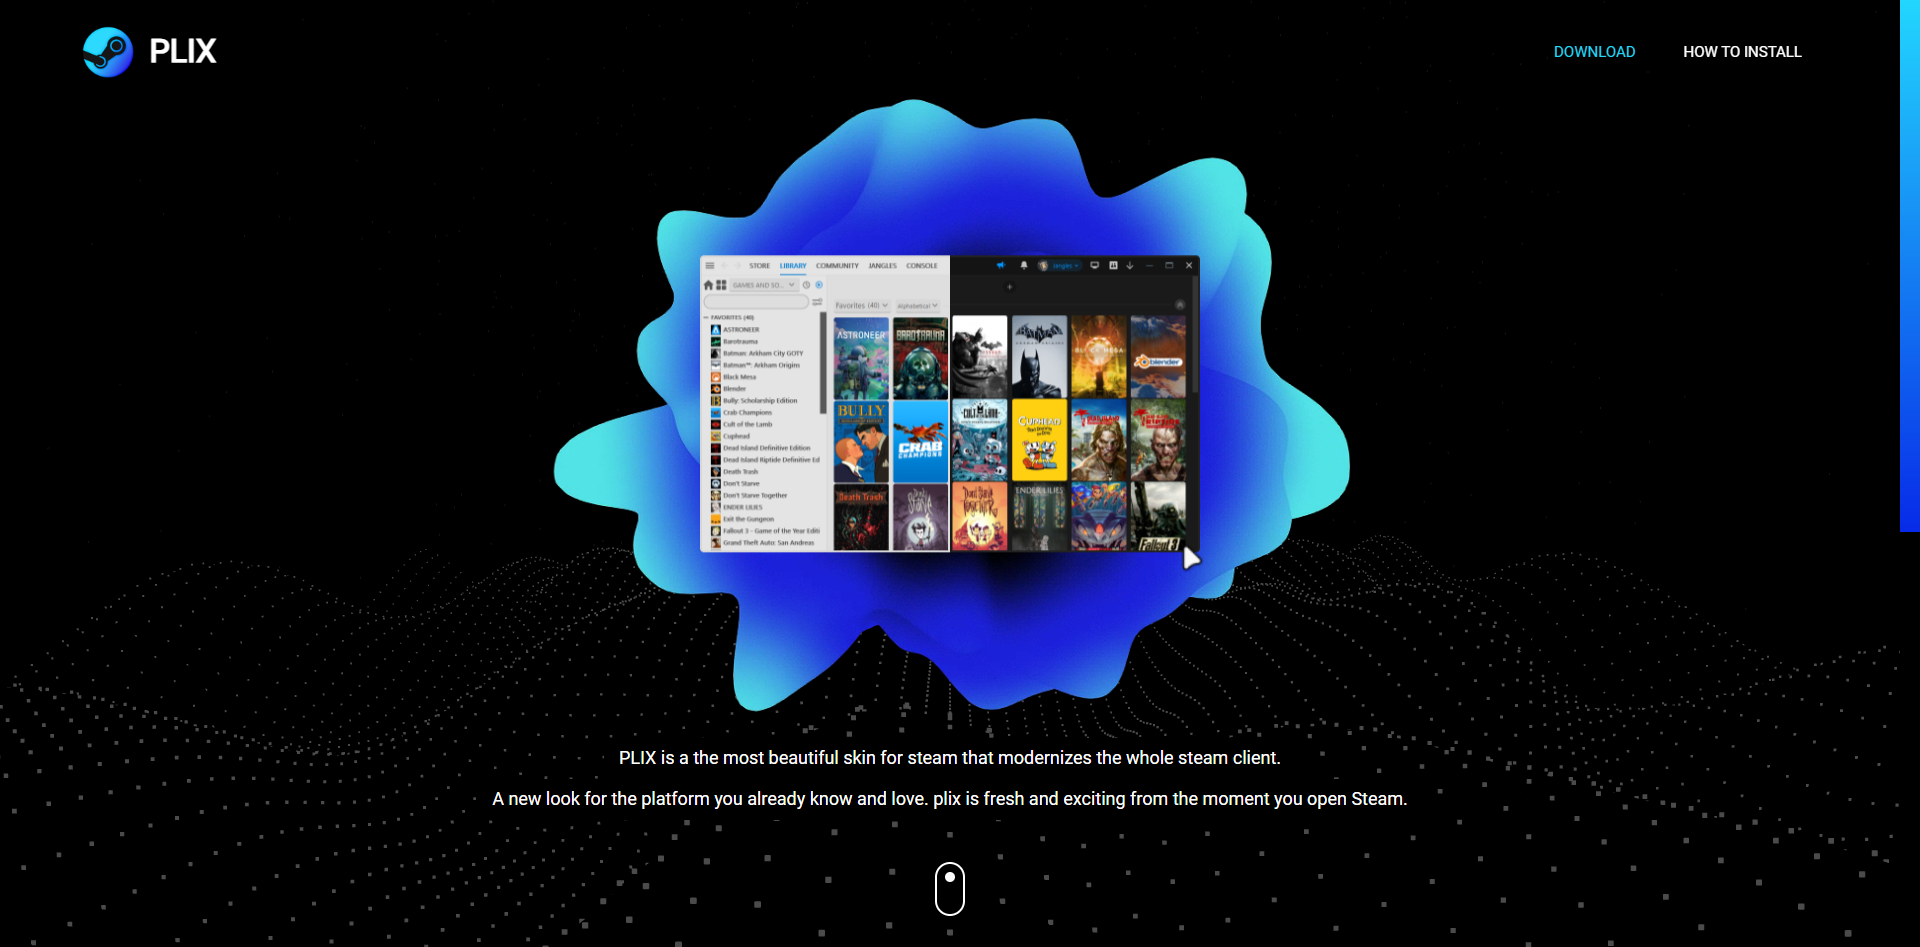
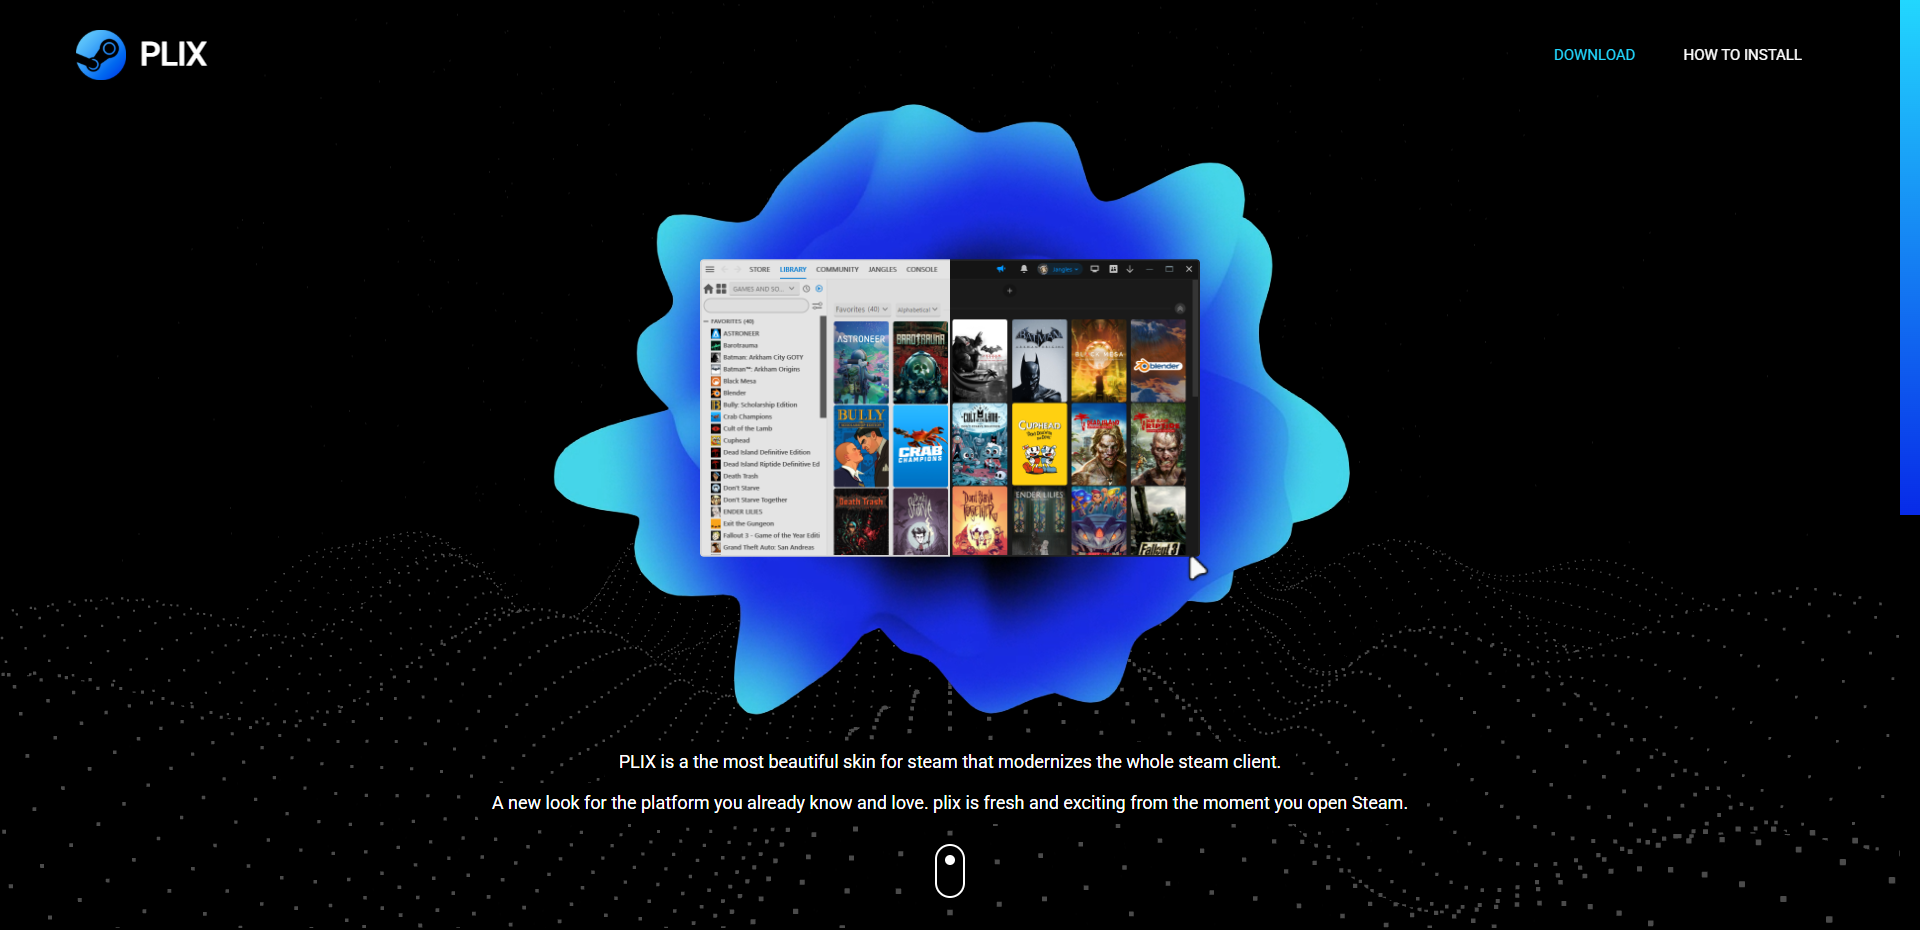
Minor Update
• removed duplicate main.js file
• fixed invisible cursor when hovering over scrollbar
• improved logos
• improved cursors
• increased mainarrow size a bit
• added github button
• decreased hover scale on some buttons
• updated preview image

diff --git a/assets/js/main.js b/assets/js/main.js
@@ -2,8 +2,9 @@ import * as THREE from './three.module.js'
 import { dotmat, terrainmat } from './fgcanvas.js';
 import state from './state.js'
 
+var innerWidth1 = window.innerWidth;
+var sboffset = innerWidth1 -22;
 const faviconimage = document.querySelector("#favicon")
-var sboffset = innerWidth -20;
 const navinput =  document.querySelector(".navigation input");
 const light = document.getElementById("lightclient");
 const dark = document.getElementById("darkclient");
@@ -39,6 +40,8 @@ window.addEventListener("load", function(){
     fgcanvas.style.animation = "showcanvas 2s forwards ease-in-out";
 })
 
+console.log("The inner width of the window is: " + innerWidth + "px");
+
 document.body.addEventListener("wheel", e => {
     customcursor.setAttribute("style","top: "+(e.pageY +12- scrollY)+"px; left: "+(e.pageX+9)+"px")
     // customcursor2.setAttribute("style","top: "+(e.pageY +12- scrollY)+"px; left: "+(e.pageX+9)+"px")
@@ -50,19 +53,21 @@ document.body.addEventListener("wheel", e => {
 
 function func1(e) {
     if (e.pageX > sboffset) {
-        document.body.style.cursor = "normal"   
-        customcursor.style.opacity = "0"
+        console.log("The cursor changed to the default");
+          customcursor.style.opacity = "0"
+        document.body.style.cursor = "inherit"
     }
+    else
+        {
+            customcursor.style.opacity = "100%"
+            document.body.style.cursor = "none"
+    }
+ 
 
     customcursor.setAttribute("style","top: "+(e.pageY +12- scrollY)+"px; left: "+(e.pageX+9)+"px")
-    // customcursor2.setAttribute("style","top: "+(e.pageY +12- scrollY)+"px; left: "+(e.pageX+9)+"px")
 }
 
-function func2(e) {
-    document.body.addEventListener("mousemove", e => {
-        ttipcontainer.setAttribute("style","top: "+(e.pageY +52- scrollY)+"px; left: "+(e.pageX+9)+"px")
-    });
-}
+
 
 document.addEventListener('mousemove',func1);
 
@@ -71,7 +76,7 @@ document.addEventListener('mouseup', e => {
     if (e.button == 1) {
         document.removeEventListener('mousemove',func1);
         customcursor.style.opacity = "0"
-        document.body.style.cursor = "normal"
+        document.body.style.cursor = "inherit"
         }
         else if (e.button == 0) {    
             customcursor.setAttribute("style","top: "+(e.pageY +12- scrollY)+"px; left: "+(e.pageX+9)+"px")
@@ -83,7 +88,7 @@ document.addEventListener('mouseup', e => {
         else if (e.button == 2) {    
             document.removeEventListener('mousemove',func1);
             customcursor.style.opacity = "0"
-            document.body.style.cursor = "normal"
+            document.body.style.cursor = "inherit"
         }
 })
 

diff --git a/assets/main.css b/assets/main.css
@@ -437,14 +437,14 @@ html {
         
     }
     100% {
-        transform: scale(1.4);
+        transform: scale(1.2);
     }   
 }
 
 @keyframes scrolltotopscaledown {
     0% {
         
-        transform: scale(1.4);
+        transform: scale(1.2);
     }
     100% {
         transform: scale(1);
@@ -878,7 +878,7 @@ button {
     position:absolute;
     left:50%;
     right:50%;
-    width:40px;
+    width:46px;
     margin-left:250px;
     margin-top:310px;
     opacity:0;
@@ -1149,7 +1149,7 @@ ul {
     color:var(--white);
     position:absolute;
     left:0;
-    padding-left: 20px;
+    margin-left: 20px;
 }
 
 .p2 {
@@ -1174,10 +1174,6 @@ ul {
     animation: twitscaledown 0.2s forwards;
 }
 
-button4 {
-   
-}
-
 #button4 img {
     width:22px;
     height:12px;
@@ -1186,7 +1182,30 @@ button4 {
     
 }
 
+#button6 {
+    position:absolute;
+    right:0;
+    margin-top:4px;
+    margin-right: 20px;
+}
+
+#button6:hover{
+animation: scrolltotopscaleup .5s forwards;
+}
+
+#button6 img {
+    width:24px;
+    height:24px;
+    cursor:pointer;
+    animation:scrolltotopscaledown .5s;
+    
+}
+
 #button4:hover {
+   animation: scrolltotopscaleup .5s forwards;
+}
+
+#button6:hover {
    animation: scrolltotopscaleup .5s forwards;
 }
 

diff --git a/assets/js/mainjump.js b/assets/js/mainjump.js
@@ -4,6 +4,7 @@ var  button1 = document.getElementById('button1');
 var  button3 = document.getElementById('button3');
 var  button4 = document.getElementById('button4');
 var  button5 = document.getElementById('button5');  
+// var  button6 = document.getElementById('button6');  
 const blob = document.getElementById('blob');
 const modalcon = document.getElementById('modal_container');
 const modal = document.getElementById('modal');
@@ -13,6 +14,7 @@ var  overlay = document.getElementById('overlay');
 button1.addEventListener('click', () => {
     jump('#sec-3');
 })
+
 
 function hidemodal() {
     document.body.style.overflow = "visible"

diff --git a/index.html b/index.html
@@ -175,7 +175,7 @@
             <div id="footer">
                 <h4 class="copyright"></h4>
                 <button id="button4"><img src="./assets/resource/scrolltotop.png" alt=""></button>
-                
+                <a id="button6" href="https://github.com/JJangless/Plix-theme" target="_blank"><img src="./assets/resource/github.png" alt=""></a>
             </div>
 
             <script type="module" src="./assets/js/bgcanvas.js"></script>
